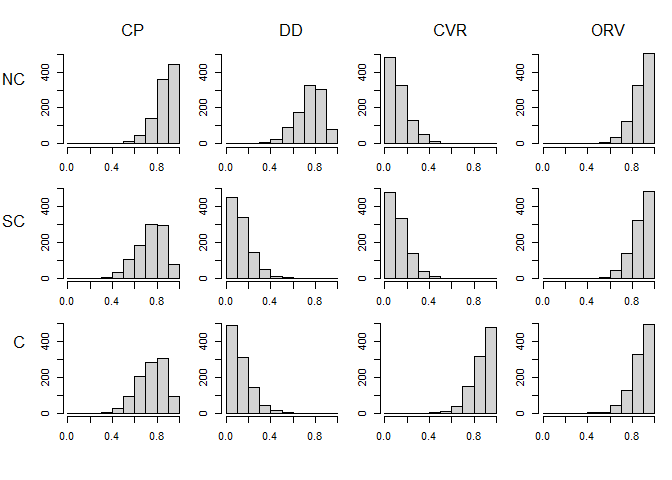
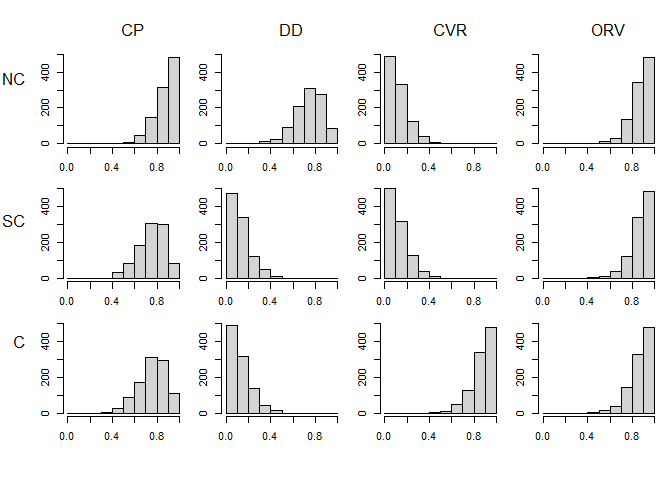
figures

diff --git a/notesoptimrabies.html b/notesoptimrabies.html
@@ -439,13 +439,13 @@ return(list(pmat, omat))
 [1,] histogram,6 histogram,6 histogram,6 histogram,6
 [2,] histogram,6 histogram,6 histogram,6 histogram,6
 [3,] histogram,6 histogram,6 histogram,6 histogram,6</code></pre>
[2 lines of base64/hex data omitted]
 <pre><code>     [,1]        [,2]        [,3]       
 [1,] histogram,6 histogram,6 histogram,6
 [2,] histogram,6 histogram,6 histogram,6
 [3,] histogram,6 histogram,6 histogram,6
 [4,] histogram,6 histogram,6 histogram,6</code></pre>
[2 lines of base64/hex data omitted]
 <pre class="r"><code>tablist=tabprep(multilist)
 pmat=tablist[1]
 
@@ -458,13 +458,13 @@ Table: Median and range of vaccine efficacy values
 <tbody>
 <tr>
 <td>
-<table style="width:100%;">
+<table>
 <colgroup>
 <col width="3%" />
 <col width="25%" />
 <col width="25%" />
 <col width="25%" />
-<col width="20%" />
+<col width="21%" />
 </colgroup>
 <thead>
 <tr class="header">
@@ -478,24 +478,24 @@ Table: Median and range of vaccine efficacy values
 <tbody>
 <tr class="odd">
 <td align="left">C</td>
-<td align="left">0.89 ( 0.43 - 1 )</td>
-<td align="left">0.9 ( 0.42 - 1 )</td>
-<td align="left">0.1 ( 0 - 0.56 )</td>
-<td align="left">0.1 ( 0 - 0.54 )</td>
+<td align="left">0.9 ( 0.38 - 1 )</td>
+<td align="left">0.9 ( 0.39 - 1 )</td>
+<td align="left">0.1 ( 0 - 0.61 )</td>
+<td align="left">0.1 ( 0 - 0.47 )</td>
 </tr>
 <tr class="even">
 <td align="left">SC</td>
-<td align="left">0.77 ( 0.33 - 0.98 )</td>
-<td align="left">0.76 ( 0.36 - 0.99 )</td>
-<td align="left">0.9 ( 0.46 - 1 )</td>
-<td align="left">0.89 ( 0.4 - 1 )</td>
+<td align="left">0.76 ( 0.32 - 0.99 )</td>
+<td align="left">0.77 ( 0.25 - 0.99 )</td>
+<td align="left">0.9 ( 0.44 - 1 )</td>
+<td align="left">0.89 ( 0.49 - 1 )</td>
 </tr>
 <tr class="odd">
 <td align="left">NC</td>
-<td align="left">0.1 ( 0 - 0.5 )</td>
-<td align="left">0.11 ( 0 - 0.61 )</td>
-<td align="left">0.76 ( 0.31 - 0.99 )</td>
-<td align="left">0.9 ( 0.49 - 1 )</td>
+<td align="left">0.1 ( 0 - 0.56 )</td>
+<td align="left">0.1 ( 0 - 0.56 )</td>
+<td align="left">0.77 ( 0.33 - 0.99 )</td>
+<td align="left">0.89 ( 0.43 - 1 )</td>
 </tr>
 </tbody>
 </table>
@@ -517,7 +517,7 @@ Table: Optimal vaccine allocation strategy (median, min - max)
 <col width="5%" />
 <col width="30%" />
 <col width="30%" />
-<col width="32%" />
+<col width="34%" />
 </colgroup>
 <thead>
 <tr class="header">
@@ -530,13 +530,13 @@ Table: Optimal vaccine allocation strategy (median, min - max)
 <tbody>
 <tr class="odd">
 <td align="left">CP</td>
-<td align="left">0 ( 0 - 8400.00000000001 )</td>
+<td align="left">5880 ( 0 - 8400.00000000001 )</td>
 <td align="left">0 ( 0 - 7200 )</td>
-<td align="left">0 ( 0 - 6480 )</td>
+<td align="left">0 ( 0 - 0 )</td>
 </tr>
 <tr class="even">
 <td align="left">DD</td>
-<td align="left">5880 ( 0 - 8400.00000000001 )</td>
+<td align="left">0 ( 0 - 8400.00000000001 )</td>
 <td align="left">0 ( 0 - 7200 )</td>
 <td align="left">0 ( 0 - 0 )</td>
 </tr>
@@ -544,7 +544,7 @@ Table: Optimal vaccine allocation strategy (median, min - max)
 <td align="left">CVR</td>
 <td align="left">0 ( 0 - 0 )</td>
 <td align="left">5520 ( 0 - 7200 )</td>
-<td align="left">6480 ( 0 - 13080 )</td>
+<td align="left">6480 ( 6479.99999999999 - 13080 )</td>
 </tr>
 <tr class="even">
 <td align="left">ORV</td>
@@ -554,7 +554,7 @@ Table: Optimal vaccine allocation strategy (median, min - max)
 </tr>
 <tr class="odd">
 <td align="left">%vax</td>
-<td align="left">1 ( 0.7 - 1 )</td>
+<td align="left">1 ( 0.699999999999999 - 1 )</td>
 <td align="left">0.766666666666667 ( 0.7 - 1 )</td>
 <td align="left">0.7 ( 0.7 - 0.908333333333334 )</td>
 </tr>
@@ -645,18 +645,18 @@ myfun=function(x, data) {
 }
 
 lapply(1:ncol(pclist), myfun, data = pclist)</code></pre>
[2 lines of base64/hex data omitted]
 <pre><code>[[1]]
 $breaks
  [1]     0  2500  5000  7500 10000 12500 15000 17500 20000 22500 25000 27500
 [13] 30000 32500 35000
 
 $counts
- [1] 18 13 18 19 19  5  4  2  2  0  0  0  0  0
+ [1] 26 14 17  7 16  9  8  3  0  0  0  0  0  0
 
 $density
- [1] 0.000072 0.000052 0.000072 0.000076 0.000076 0.000020 0.000016 0.000008
- [9] 0.000008 0.000000 0.000000 0.000000 0.000000 0.000000
+ [1] 0.000104 0.000056 0.000068 0.000028 0.000064 0.000036 0.000032 0.000012
+ [9] 0.000000 0.000000 0.000000 0.000000 0.000000 0.000000
 
 $mids
  [1]  1250  3750  6250  8750 11250 13750 16250 18750 21250 23750 26250 28750
@@ -677,11 +677,11 @@ $breaks
 [13] 30000 32500 35000
 
 $counts
- [1]  5 21 25 24 15  5  3  1  0  1  0  0  0  0
+ [1]  4 14 23 21 22 11  3  1  1  0  0  0  0  0
 
 $density
- [1] 0.000020 0.000084 0.000100 0.000096 0.000060 0.000020 0.000012 0.000004
- [9] 0.000000 0.000004 0.000000 0.000000 0.000000 0.000000
+ [1] 0.000016 0.000056 0.000092 0.000084 0.000088 0.000044 0.000012 0.000004
+ [9] 0.000004 0.000000 0.000000 0.000000 0.000000 0.000000
 
 $mids
  [1]  1250  3750  6250  8750 11250 13750 16250 18750 21250 23750 26250 28750
@@ -702,11 +702,11 @@ $breaks
 [13] 30000 32500 35000
 
 $counts
- [1]  0  3 10 14 17 16 15  9  9  5  2  0  0  0
+ [1]  0  1  6 11 20 18 21  9  7  6  1  0  0  0
 
 $density
- [1] 0.000000 0.000012 0.000040 0.000056 0.000068 0.000064 0.000060 0.000036
- [9] 0.000036 0.000020 0.000008 0.000000 0.000000 0.000000
+ [1] 0.000000 0.000004 0.000024 0.000044 0.000080 0.000072 0.000084 0.000036
+ [9] 0.000028 0.000024 0.000004 0.000000 0.000000 0.000000
 
 $mids
  [1]  1250  3750  6250  8750 11250 13750 16250 18750 21250 23750 26250 28750
@@ -720,7 +720,7 @@ $equidist
 
 attr(,&quot;class&quot;)
 [1] &quot;histogram&quot;</code></pre>
-<p>Our simulations provide a range of always confined dogs (7897 ( 0 - 21997 )), semi-confined(7406 ( 943 - 23511 )), and never confined dogs (13087 ( 4500 - 27158 )), which produces a range of vaccination outcomes for a fixed number of vaccines (injections = 20400 and baits = 3600), but overall, a standard strategy emerges for this level of uncertainty in the dog populations.</p>
+<p>Our simulations provide a range of always confined dogs (6570 ( 0 - 19799 )), semi-confined(8992 ( 1564 - 22000 )), and never confined dogs (14011 ( 3415 - 26086 )), which produces a range of vaccination outcomes for a fixed number of vaccines (injections = 20400 and baits = 3600), but overall, a standard strategy emerges for this level of uncertainty in the dog populations.</p>
 <p>We could also simultaneously vary the uncertainty about the dog population and the vaccine delivery efficacy, but I’m not sure this is useful when we have a range of dog categories that is sometimes zero? We need a better way to perhaps plot/categorize these different scenarios</p>
 <table>
 <caption>Table: Optimal vaccine allocation strategy for fixed number of vaccines (median, min - max)</caption>
@@ -735,7 +735,7 @@ attr(,&quot;class&quot;)
 <tbody>
 <tr class="odd">
 <td align="left">CP</td>
-<td align="left">7505 ( 0 - 12466 )</td>
+<td align="left">965 ( 0 - 12187 )</td>
 <td align="left">0 ( 0 - 0 )</td>
 <td align="left">0 ( 0 - 0 )</td>
 </tr>
@@ -748,8 +748,8 @@ attr(,&quot;class&quot;)
 <tr class="odd">
 <td align="left">CVR</td>
 <td align="left">0 ( 0 - 0 )</td>
-<td align="left">3848 ( 0 - 9739 )</td>
-<td align="left">5582 ( 0 - 9630 )</td>
+<td align="left">7766 ( 0 - 13595 )</td>
+<td align="left">6250 ( 0 - 8936 )</td>
 </tr>
 <tr class="even">
 <td align="left">ORV</td>
@@ -760,7 +760,7 @@ attr(,&quot;class&quot;)
 <tr class="odd">
 <td align="left">%vax</td>
 <td align="left">1 ( 0 - 1 )</td>
-<td align="left">0.86 ( 0 - 1 )</td>
+<td align="left">0.74 ( 0 - 1 )</td>
 <td align="left">0.7 ( 0 - 1 )</td>
 </tr>
 </tbody>

diff --git a/notesoptimrabies.md b/notesoptimrabies.md
@@ -380,11 +380,11 @@ knitr::kable(pmat, digits=2, caption="Table: Median and range of vaccine efficac
   <tr>
    <td> 
 
-|   |CP                   |DD                  |CVR                  |ORV               |
-|:--|:--------------------|:-------------------|:--------------------|:-----------------|
-|C  |0.9 ( 0.42 - 1 )     |0.89 ( 0.41 - 1 )   |0.1 ( 0 - 0.59 )     |0.11 ( 0 - 0.55 ) |
-|SC |0.76 ( 0.28 - 0.97 ) |0.76 ( 0.3 - 0.98 ) |0.89 ( 0.48 - 1 )    |0.9 ( 0.43 - 1 )  |
-|NC |0.11 ( 0 - 0.69 )    |0.1 ( 0 - 0.54 )    |0.76 ( 0.33 - 0.98 ) |0.89 ( 0.39 - 1 ) |
+|   |CP                   |DD                   |CVR                  |ORV               |
+|:--|:--------------------|:--------------------|:--------------------|:-----------------|
+|C  |0.9 ( 0.38 - 1 )     |0.9 ( 0.39 - 1 )     |0.1 ( 0 - 0.61 )     |0.1 ( 0 - 0.47 )  |
+|SC |0.76 ( 0.32 - 0.99 ) |0.77 ( 0.25 - 0.99 ) |0.9 ( 0.44 - 1 )     |0.89 ( 0.49 - 1 ) |
+|NC |0.1 ( 0 - 0.56 )     |0.1 ( 0 - 0.56 )     |0.77 ( 0.33 - 0.99 ) |0.89 ( 0.43 - 1 ) |
 
  </td>
   </tr>
@@ -410,7 +410,7 @@ knitr::kable(omat, digits=2, caption="Table: Optimal vaccine allocation strategy
 |DD   |0 ( 0 - 8400.00000000001 )    |0 ( 0 - 7200 )                |0 ( 0 - 0 )                       |
 |CVR  |0 ( 0 - 0 )                   |5520 ( 0 - 7200 )             |6480 ( 6479.99999999999 - 13080 ) |
 |ORV  |0 ( 0 - 0 )                   |0 ( 0 - 3600 )                |3600 ( 0 - 3600 )                 |
-|%vax |1 ( 0.7 - 1 )                 |0.766666666666667 ( 0.7 - 1 ) |0.7 ( 0.7 - 0.908333333333334 )   |
+|%vax |1 ( 0.699999999999999 - 1 )   |0.766666666666667 ( 0.7 - 1 ) |0.7 ( 0.7 - 0.908333333333334 )   |
 
  </td>
   </tr>
@@ -519,11 +519,11 @@ $breaks
 [13] 30000 32500 35000
 
 $counts
- [1] 23 17 11 15 13  6  6  5  3  0  1  0  0  0
+ [1] 26 14 17  7 16  9  8  3  0  0  0  0  0  0
 
 $density
- [1] 0.000092 0.000068 0.000044 0.000060 0.000052 0.000024 0.000024 0.000020
- [9] 0.000012 0.000000 0.000004 0.000000 0.000000 0.000000
+ [1] 0.000104 0.000056 0.000068 0.000028 0.000064 0.000036 0.000032 0.000012
+ [9] 0.000000 0.000000 0.000000 0.000000 0.000000 0.000000
 
 $mids
  [1]  1250  3750  6250  8750 11250 13750 16250 18750 21250 23750 26250 28750
@@ -544,10 +544,10 @@ $breaks
 [13] 30000 32500 35000
 
 $counts
- [1]  2 17 22 23 18 10  5  2  1  0  0  0  0  0
+ [1]  4 14 23 21 22 11  3  1  1  0  0  0  0  0
 
 $density
- [1] 0.000008 0.000068 0.000088 0.000092 0.000072 0.000040 0.000020 0.000008
+ [1] 0.000016 0.000056 0.000092 0.000084 0.000088 0.000044 0.000012 0.000004
  [9] 0.000004 0.000000 0.000000 0.000000 0.000000 0.000000
 
 $mids
@@ -569,11 +569,11 @@ $breaks
 [13] 30000 32500 35000
 
 $counts
- [1]  0  1  9 10 17 21 21  8  8  2  2  1  0  0
+ [1]  0  1  6 11 20 18 21  9  7  6  1  0  0  0
 
 $density
- [1] 0.000000 0.000004 0.000036 0.000040 0.000068 0.000084 0.000084 0.000032
- [9] 0.000032 0.000008 0.000008 0.000004 0.000000 0.000000
+ [1] 0.000000 0.000004 0.000024 0.000044 0.000080 0.000072 0.000084 0.000036
+ [9] 0.000028 0.000024 0.000004 0.000000 0.000000 0.000000
 
 $mids
  [1]  1250  3750  6250  8750 11250 13750 16250 18750 21250 23750 26250 28750
@@ -589,7 +589,7 @@ attr(,"class")
 [1] "histogram"
 ```
 
-Our simulations provide a range of always confined dogs (7156 ( 0 - 25147 )), semi-confined(8274 ( 1712 - 20199 )), and never confined dogs (13692 ( 4736 - 28420 )), which produces  a range of vaccination outcomes for a fixed number of vaccines (injections = 20400 and baits = 3600), but overall, a standard strategy emerges for this level of uncertainty in the dog populations.
+Our simulations provide a range of always confined dogs (6570 ( 0 - 19799 )), semi-confined(8992 ( 1564 - 22000 )), and never confined dogs (14011 ( 3415 - 26086 )), which produces  a range of vaccination outcomes for a fixed number of vaccines (injections = 20400 and baits = 3600), but overall, a standard strategy emerges for this level of uncertainty in the dog populations.
 
 We could also simultaneously vary the uncertainty about the dog population and the vaccine delivery efficacy, but I'm not sure this is useful when we have a range of dog categories that is sometimes zero? We need a better way to perhaps plot/categorize these different scenarios
 
@@ -597,13 +597,13 @@ We could also simultaneously vary the uncertainty about the dog population and t
 
 Table: Table: Optimal vaccine allocation strategy for fixed number of vaccines (median, min - max)
 
-|     |C                 |SC                 |NC                 |
-|:----|:-----------------|:------------------|:------------------|
-|CP   |748 ( 0 - 14754 ) |0 ( 0 - 0 )        |0 ( 0 - 0 )        |
-|DD   |0 ( 0 - 0 )       |0 ( 0 - 0 )        |0 ( 0 - 0 )        |
-|CVR  |0 ( 0 - 0 )       |4478 ( 0 - 13810 ) |6771 ( 0 - 13452 ) |
-|ORV  |0 ( 0 - 0 )       |0 ( 0 - 0 )        |3600 ( 0 - 3600 )  |
-|%vax |0.91 ( 0 - 1 )    |0.7 ( 0 - 1 )      |0.7 ( 0 - 1 )      |
+|     |C                 |SC                 |NC                |
+|:----|:-----------------|:------------------|:-----------------|
+|CP   |965 ( 0 - 12187 ) |0 ( 0 - 0 )        |0 ( 0 - 0 )       |
+|DD   |0 ( 0 - 0 )       |0 ( 0 - 0 )        |0 ( 0 - 0 )       |
+|CVR  |0 ( 0 - 0 )       |7766 ( 0 - 13595 ) |6250 ( 0 - 8936 ) |
+|ORV  |0 ( 0 - 0 )       |0 ( 0 - 0 )        |3600 ( 0 - 3600 ) |
+|%vax |1 ( 0 - 1 )       |0.74 ( 0 - 1 )     |0.7 ( 0 - 1 )     |
 
 ## Find optimal solultion for expediture
 
